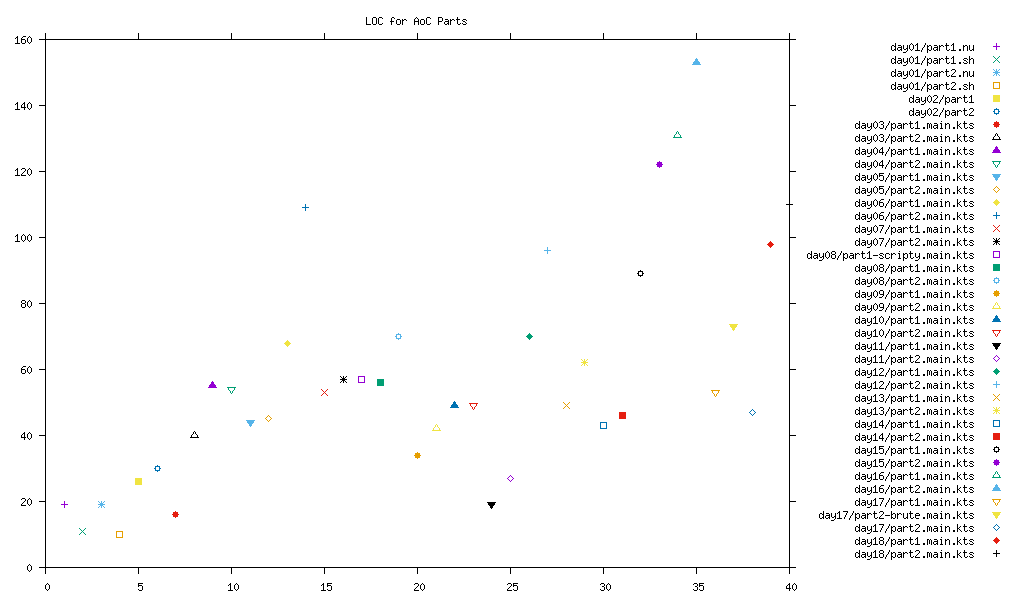
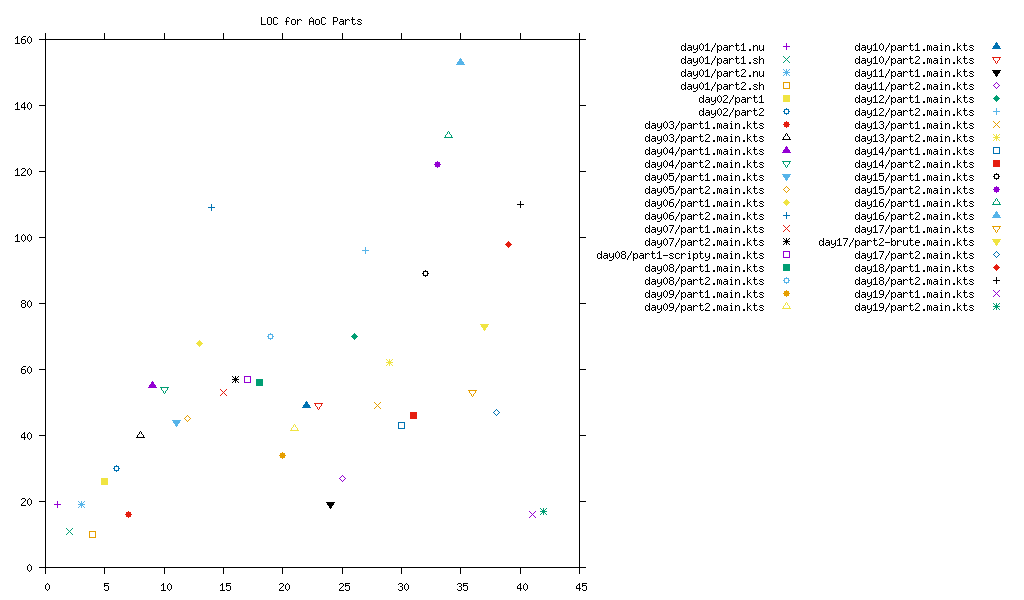
feat: Day19 in Kotlin
- Permutation explosion
- Dynamic programming solves

diff --git a/day19/notes.md b/day19/notes.md
@@ -1,0 +1,18 @@
+# Notes
+
+- Unique colours all represented in towels (b g r u w)
+- All individual `r?` pairs available.
+- So maybe only difficult ones are ending in `r`?
+
+Difficult endings:
+
+- Individual colours: r (MISSING)
+- Pairs ending in r: ur (MISSING)
+- Triplets ending in ur: wur (MISSING)
+- Quads ending in wur:
+    - gwur (MISSING)
+    - rwur (MISSING)
+    - wwur (MISSING)
+- ...?
+
+👉 Not feeling like this works, switching to coding a search.
